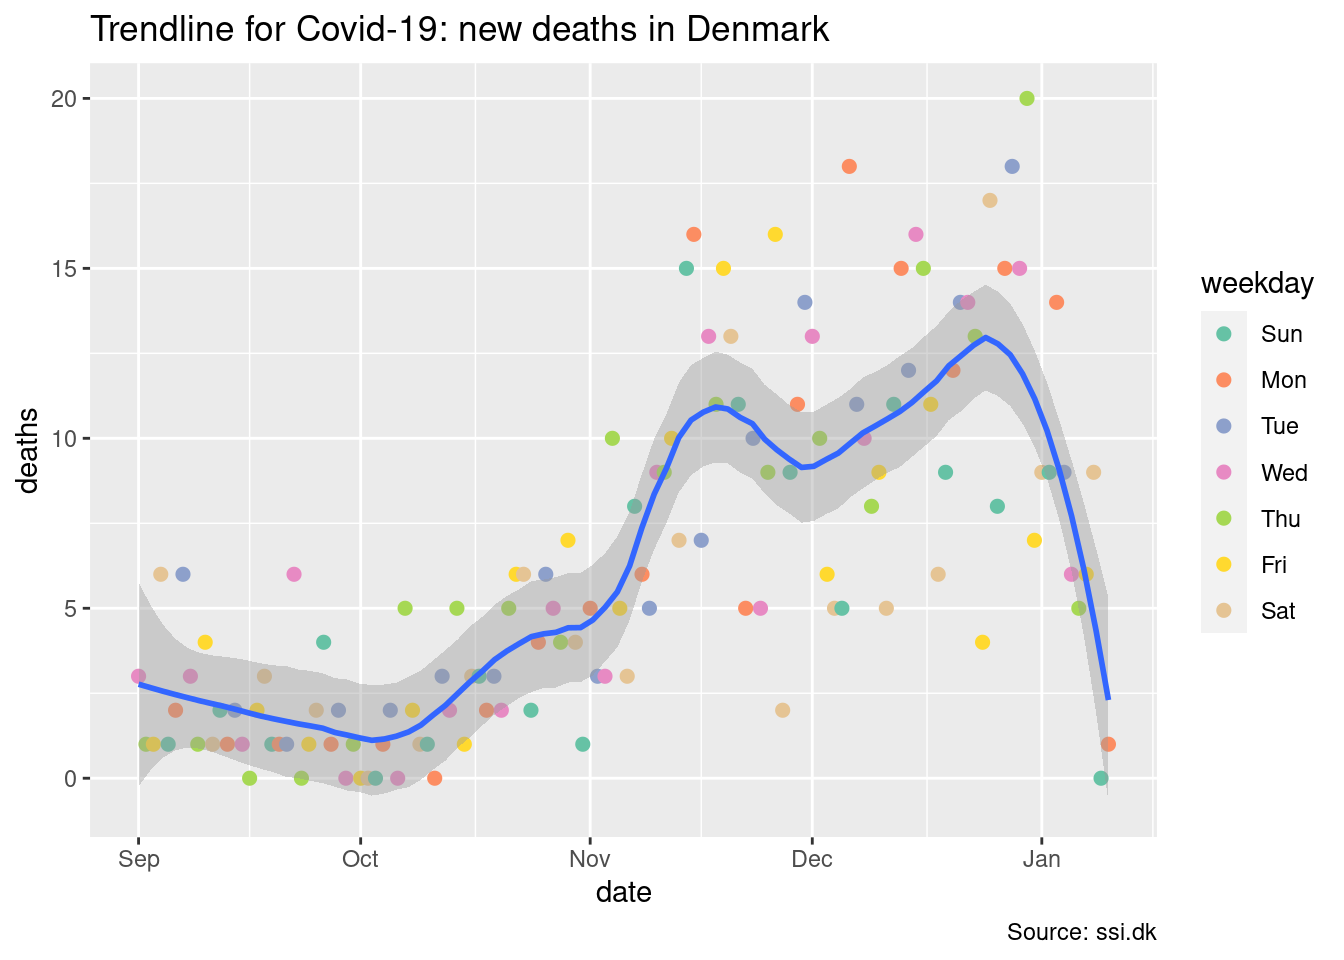
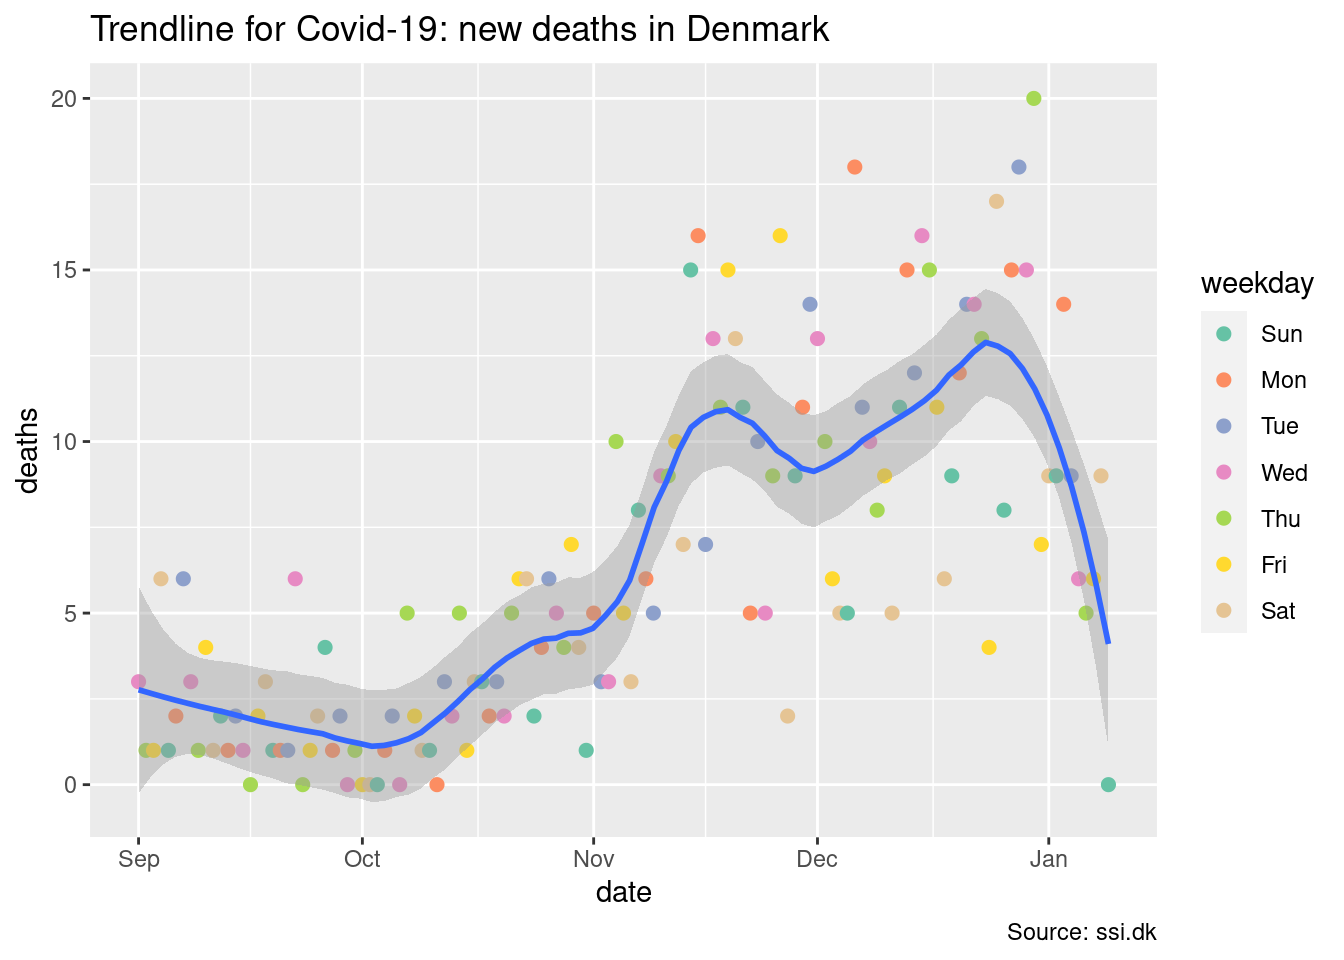
Better death plot. Better cutoff.

diff --git a/docs/index.html b/docs/index.html
@@ -548,8 +548,8 @@ plot_country(p, &quot;Trendline for Covid-19 cases in Denmark&quot;, &quot;Sourc
 plot_country(p, &quot;Trendline for Covid-19: new hospitalizations in Denmark&quot;, &quot;Source: ssi.dk&quot;)</code></pre>
 <pre><code>## `geom_smooth()` using formula &#39;y ~ x&#39;</code></pre>
 <p><img src="index_files/figure-html/country-hospitalizations-1.png" width="672" /></p>
-<p>And likewise for deaths. Since deaths tend to have a larger lag before reporting, we don’t report the last 5 days</p>
-<pre class="r"><code>hi_cutoff_deaths &lt;- max(country$date) - days(4)
+<p>And likewise for deaths. Since deaths tend to have a larger lag before reporting, we don’t report the last 6 days</p>
+<pre class="r"><code>hi_cutoff_deaths &lt;- max(country$date) - days(5)
 p &lt;- ggplot(country %&gt;% filter(date &lt; hi_cutoff_deaths), aes(x=date, y=deaths))
 plot_country(p, &quot;Trendline for Covid-19: new deaths in Denmark&quot;, &quot;Source: ssi.dk&quot;)</code></pre>
 <pre><code>## `geom_smooth()` using formula &#39;y ~ x&#39;</code></pre>
